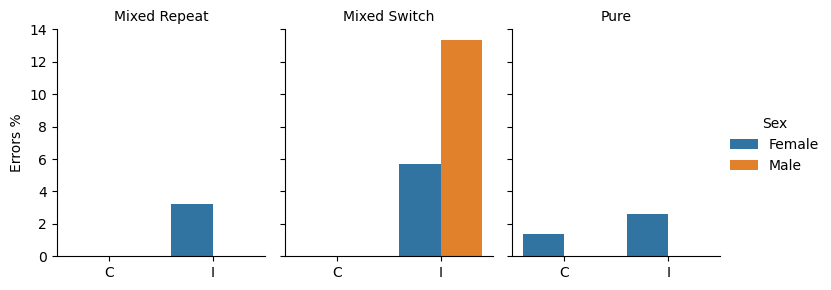
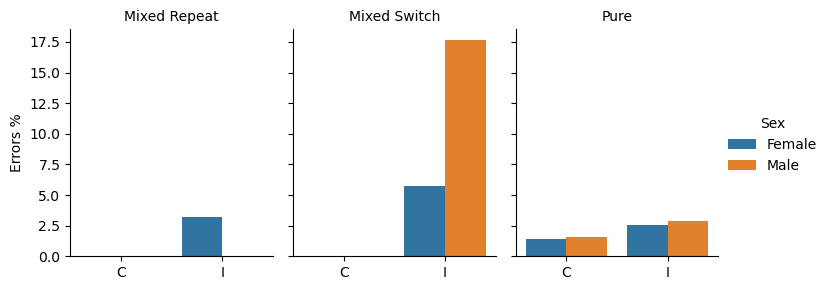
Finalized

diff --git a/experiment_1.py b/experiment_1.py
@@ -1,4 +1,5 @@
 # Author: Victoria Shevchenko
+
 """ Here, distinct functions are defined for the training and experimental trials. The training function does not collect data and takes the number of trials as imput. The experiment function attributes additional factors to trials (correct_key, is_congruent, is_correct) and collects data. It takes as input a list of stimulus blocks and the number of trials for each block. Subject's sex is retrieved with a separate function and is recorded for every trial. The factors related to stimuli (task, shape of the frame, number of circles) are attributed at the stage of trial block creation. Three blocks are created: pure shape, pure filling and mixed. At the end of the experiment, the script concatenates the generated data in a csv file and saves it to the current directory."""
 
 import os
@@ -182,12 +183,10 @@ kb = io.Keyboard()
 
 control.start()
 
-training(TRAINING_TRIALS)
+#training(TRAINING_TRIALS)
 
-experiment(BLOCKS, EXPERIMENT_TRIALS_PER_BLOCK)
-
-
-
+#experiment(BLOCKS, EXPERIMENT_TRIALS_PER_BLOCK)
+experiment(BLOCKS, 3)
 control.end()
 
 current_dir = os.getcwd() + '/'

diff --git a/data_analysis.py b/data_analysis.py
@@ -1,10 +1,12 @@
+# Author: Victoria Shevchenko
+
+"""The script first reads the .csv file previously generated with experiment_1.py.  Then, it attributes a 'Condition' factor to trials. They are either pure, mixed repeat or mixed switch. The mixed switch factor is of special interest: they bear information about the switching cost. The data are then grouped by trial condition, congruency and subject's sex. The error rate is calculated after the grouping (line 29). The plots are generated from the grouped data."""
+
 import pandas as pd
 import matplotlib.pyplot as plt
 import numpy as np
 import seaborn as sns
 import os
-
-"""The script first reads the .csv file previously generated with experiment_1.py.  Then, it attributes a 'Condition' factor to trials. They are either pure, mixed repeat or mixed switch. The mixed switch factor is of special interest: they bear information about the switching cost. The data are then grouped by trial condition, congruency and subject's sex. The error rate is calculated after the grouping (line 29). The plots are generated from the grouped data."""
 
 GRAPH_DIR  = 'Graphs/'
 
